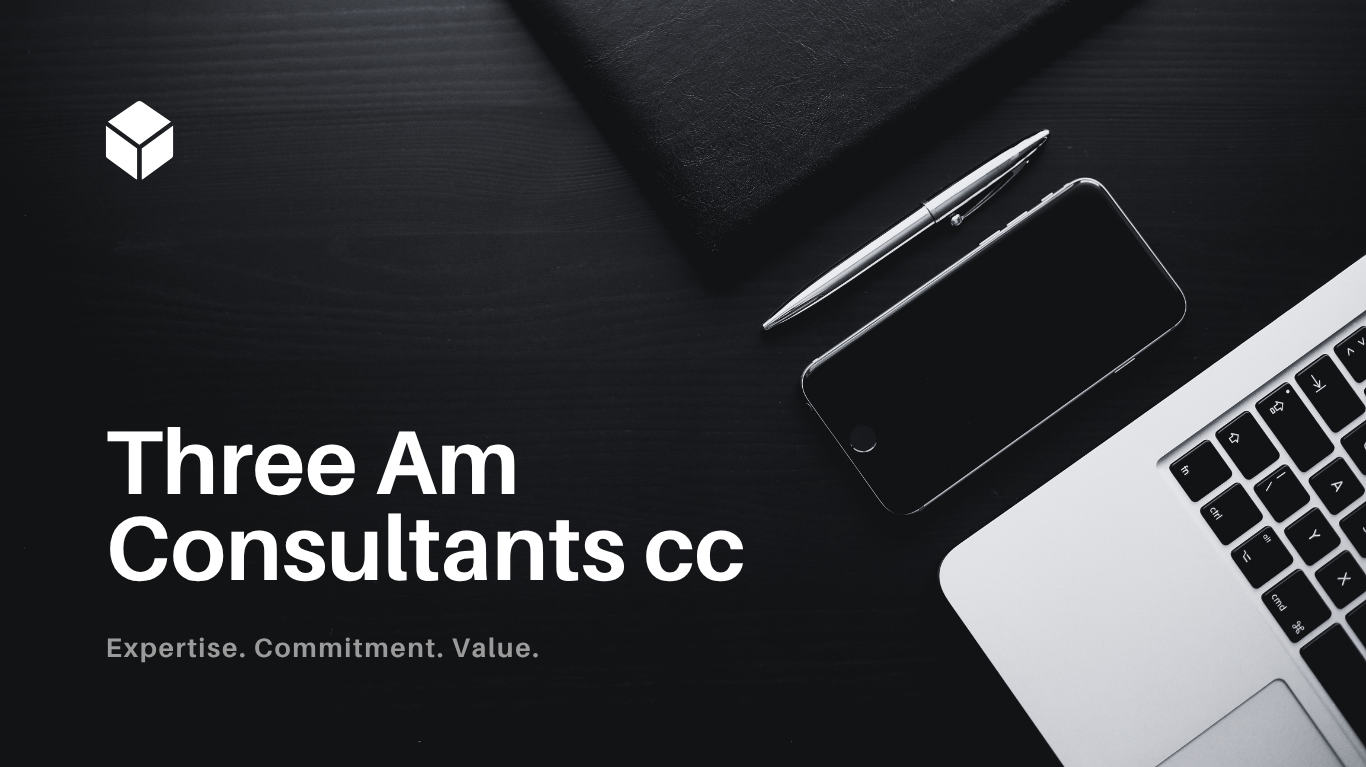
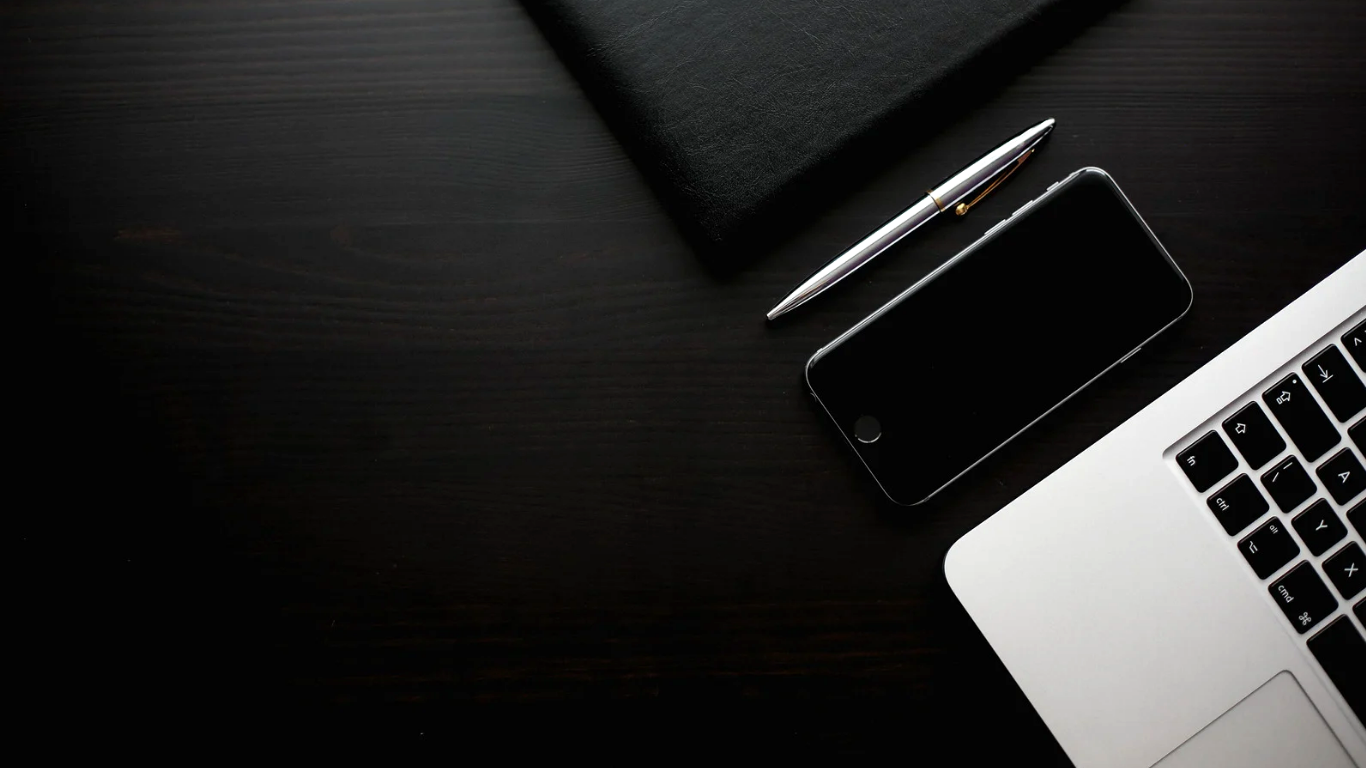
made changes to the home page and global backgroung image

diff --git a/Front-end/assets/css/style.css b/Front-end/assets/css/style.css
@@ -21,21 +21,19 @@ main {
     margin-left: 260px;
 }
 
-
-
 /* =========================
    Global Styles
    ========================= */
+/* GLOBAL BACKGROUND IMAGE FOR ALL PAGES */
 body {
-  font-family: 'Inter', sans-serif;
-  background: #ffffff; /* white background as requested */
-  color: #111827;
-  margin: 0;
-  padding: 0;
-  display: flex;
-  flex-direction: column;
-  min-height: 100vh;
+    background-image: url('../images/Home (2).png');
+    background-size: cover;        /* makes the image fill the whole page */
+    background-position: center;   /* centers the image */
+    background-repeat: no-repeat;  /* prevents repeating */
+    background-attachment: fixed;  /* makes background stay still when scrolling */
+    min-height: 100vh;
 }
+
 
 h1, h2, h3 {
   color: #111827;
@@ -86,79 +84,175 @@ ul {
   margin-left: 20px;
 }
 
-/* ============================
-   HOME PAGE HERO BACKGROUND
-============================= */
-#home-hero {
-    width: 100%;
-    height: 100vh; /* full screen height */
-    background-image: url('../images/Home (2).png');
-    background-size: cover;
-    background-position: center;
-    background-repeat: no-repeat;
+/* =========================
+   HOME PAGE — NEW DESIGN
+   ========================= */
+
+/* ===== HERO SECTION ===== */
+#hero-section {
+    height: 85vh;
     display: flex;
+    align-items: center;
     justify-content: center;
+    padding: 0 10%;
+    background: url('../images/hero-bg.jpg') center/cover no-repeat;
+    color: white;
+    text-align: center;
+}
+
+.hero-content h1 {
+    font-size: 3.5rem;
+    font-weight: 700;
+    color: #ffffff;
+}
+
+.hero-content .subtitle {
+    margin-top: 10px;
+    font-size: 1.2rem;
+    color: #cccccc;
+}
+
+/* ===== COMPANY PROFILE SECTION ===== */
+#company-profile {
+    padding: 80px 10%;
+    background-color: #111111;
+    color: white;
+}
+
+.profile-container {
+    display: flex;
+    align-items: center;
+    gap: 40px;
+    flex-wrap: wrap;
+    justify-content: center;
+}
+
+.profile-img {
+    flex: 1 1 400px;
+    max-width: 450px;
+    height: 350px;
+    border-radius: 8px;
+    overflow: hidden;
+}
+
+.profile-img img {
+    width: 100%;
+    height: 100%;
+    object-fit: cover;
+    display: block;
+    border-radius: 8px;
+}
+
+.profile-text {
+    flex: 1 1 400px;
+    max-width: 500px;
+}
+
+.profile-text h2 {
+    font-size: 2.5rem;
+    margin-bottom: 15px;
+    color: white;
+}
+
+.profile-text p {
+    margin-bottom: 20px;
+    color: #cccccc;
+    line-height: 1.6;
+}
+
+.btn-learn-more {
+    display: inline-block;
+    padding: 10px 18px;
+    background: #444444;
+    color: white;
+    border-radius: 6px;
+    text-decoration: none;
+    font-weight: 500;
+    transition: 0.3s ease;
+}
+
+.btn-learn-more:hover {
+    background: #666666;
+}
+
+/* ===== QUOTE SECTION ===== */
+#quote-section {
+    padding: 120px 10%;
+    text-align: center;
+    background-color: #0d0d0d;
+    color: white;
+}
+
+#quote-section blockquote {
+    font-size: 2rem;
+    font-weight: 600;
+    line-height: 1.4;
+}
+
+.quote-author {
+    margin-top: 20px;
+    font-size: 1.1rem;
+    color: #aaaaaa;
+}
+
+/* ===== ABOUT PAGE (Improved) ===== */
+#about-page .page-container {
+    display: flex;
+    flex-direction: column;
     align-items: center;
 }
 
-#home-hero .btn-learn-more {
-    background: #ffffff;
-    color: #111827;
-    padding: 12px 24px;
-    border-radius: 4px;
-    font-size: 1rem;
-    text-decoration: none;
-    font-weight: 600;
-    box-shadow: 0 4px 8px rgba(0,0,0,0.2);
-    transition: 0.2s;
-}
-
-#home-hero .btn-learn-more:hover {
-    background: #f3f4f6;
-    transform: translateY(-2px);
-}
-
-
-/* =========================
-   ABOUT PAGE (Improved)
-   ========================= */
-#about-page .page-container {
-  display: flex;
-  flex-direction: column;
-  align-items: center;
-}
-
 #about-page .about-section {
-  background: white;
-  border-radius: 4px; /* smaller radius */
-  padding: 2.5rem;
-  box-shadow: 0 6px 12px rgba(0, 0, 0, 0.08);
-  margin: 2rem auto;
-  max-width: 800px;
-  width: 100%;
-  transition: transform 0.2s, box-shadow 0.2s;
+    background: white;
+    border-radius: 4px;
+    padding: 2.5rem;
+    box-shadow: 0 6px 12px rgba(0, 0, 0, 0.08);
+    margin: 2rem auto;
+    max-width: 800px;
+    width: 100%;
+    transition: transform 0.2s, box-shadow 0.2s;
 }
 
-  /* Add visual separation between sections */
-        .about-section + .about-section {
-            border-top: 1px solid #e5e7eb;
-            margin-top: 2rem;
-            padding-top: 2rem;
-        }
+.about-section + .about-section {
+    border-top: 1px solid #e5e7eb;
+    margin-top: 2rem;
+    padding-top: 2rem;
+}
 
 #about-page .about-section:hover {
-  transform: translateY(-2px);
-  box-shadow: 0 8px 16px rgba(0, 0, 0, 0.12);
+    transform: translateY(-2px);
+    box-shadow: 0 8px 16px rgba(0, 0, 0, 0.12);
 }
 
 #about-page .about-section h2 {
-  text-align: center;
-  margin-bottom: 1rem;
+    text-align: center;
+    margin-bottom: 1rem;
 }
 
 #about-page ul#mission-list li {
-  margin-bottom: 0.5rem;
+    margin-bottom: 0.5rem;
 }
+
+/* ===== RESPONSIVE ===== */
+@media (max-width: 900px) {
+    .profile-container {
+        flex-direction: column;
+        gap: 30px;
+    }
+
+    #hero-section h1 {
+        font-size: 2.5rem;
+    }
+
+    #hero-section .subtitle {
+        font-size: 1rem;
+    }
+
+    .profile-text {
+        text-align: center;
+    }
+}
+
 
 /* =========================
    Service Page
@@ -169,7 +263,7 @@ ul {
 #our-approach,
 #why-partner {
   background: white;
-  border-radius: 4px; /* improved radius */
+  border-radius: 4px;
   padding: 2rem;
   margin: 2rem auto;
   max-width: 800px;
@@ -195,7 +289,7 @@ ul {
 }
 
 /* =========================
-   Contact Page (Improved)
+   Contact Page
    ========================= */
 #contact-information {
   background: white;
@@ -265,9 +359,8 @@ ul {
   color: #374151;
 }
 
-
 /* =========================
-   Images inside sections
+   Images
    ========================= */
 .section-image {
   float: left;
@@ -285,7 +378,6 @@ ul {
   margin-right: 0;
 }
 
-/* Clear floats */
 .clearfix::after {
   content: "";
   display: table;
@@ -380,12 +472,34 @@ ul {
   .sidebar {
     transform: translateX(-260px);
   }
+
   .sidebar.active {
     transform: translateX(0);
   }
 }
 
 @media (max-width: 640px) {
+
+  #hero-section {
+    height: 70vh;
+    text-align: center;
+    padding: 0 5%;
+  }
+
+  .hero-content h1 {
+    font-size: 2.4rem;
+  }
+
+  .profile-container {
+    flex-direction: column;
+    text-align: center;
+  }
+
+  .profile-img {
+    width: 100%;
+    height: 260px;
+  }
+
   .page-container {
     padding: 1rem;
   }

diff --git a/Front-end/pages/home.html b/Front-end/pages/home.html
@@ -12,11 +12,47 @@
     <!-- NAVBAR -->
     <div id="navbar"></div>
 
-    <!-- ============ HERO SECTION WITH BACKGROUND IMAGE ============ -->
-    <div id="home-hero">
-        <a href="#" class="btn-learn-more">Learn More</a>
-    </div>
-    <!-- ============================================================== -->
+    <!-- ================= HERO SECTION ================= -->
+    <section id="hero-section">
+        <div class="hero-content">
+            <h1>Three Am Consultants cc</h1>
+            <p class="subtitle">Expertise. Commitment. Value.</p>
+        </div>
+    </section>
+    <!-- ================================================= -->
+
+    <!-- ================= COMPANY PROFILE ================= -->
+    <section id="company-profile">
+        <div class="profile-container">
+
+            <!-- LEFT SIDE IMAGE -->
+            <div class="profile-img">
+                <img src="../assets/images/abel.jpg" alt="Company Image">
+            </div>
+
+            <!-- RIGHT SIDE CONTENT -->
+            <div class="profile-text">
+                <h2>Company Profile</h2>
+                <p>
+                    Three AM Consultants CC is a Windhoek-based consultancy firm dedicated to helping 
+                    small and medium-sized enterprises (SMEs) optimize their market presence and accelerate sales growth.
+                </p>
+                <a href="#" class="btn-learn-more">Learn More</a>
+            </div>
+
+        </div>
+    </section>
+    <!-- ==================================================== -->
+
+    <!-- ================= QUOTE SECTION ================= -->
+    <section id="quote-section">
+        <blockquote>
+            "Accounting is our expertise.<br>
+            We'll take care of it, so you can focus on yours."
+        </blockquote>
+        <p class="quote-author">Aaliyah Igwe, CEO</p>
+    </section>
+    <!-- ================================================= -->
 
     <!-- FOOTER -->
     <div id="footer"></div>

diff --git a/Front-end/assets/js/main.js b/Front-end/assets/js/main.js
@@ -27,7 +27,5 @@ function initSidebarToggle() {
   }
 }
 
-document.getElementById("learn-more-btn")?.addEventListener("click", () => {
-    window.location.href = "about.html";
-});
+
 
